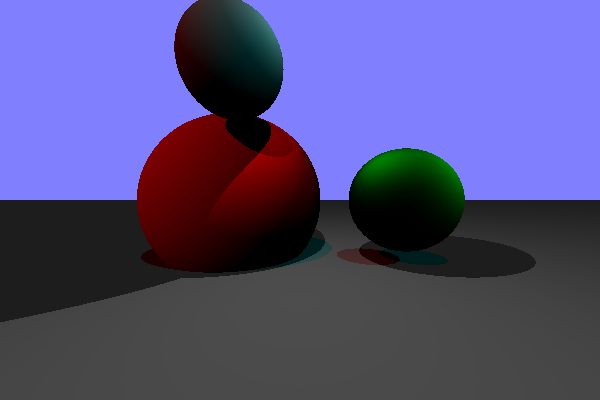
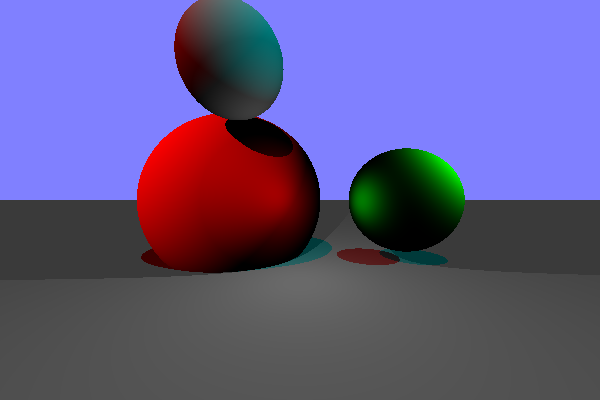
readjustments

Changed region(s): [[0.0, 0.0, 1.0, 0.81], [0.6, 0.57, 0.9, 0.72]]

diff --git a/src/main.rs b/src/main.rs
@@ -40,19 +40,19 @@ fn main() {
         DirectionalLight::new(
             Vector::new(1.0, -1.0, -1.0),
             Color::new(255,0, 0),
-            0.5
+            1.0
         )
     ));
     scene.add_light(Box::new(
         DirectionalLight::new(
             Vector::new(-1.0, -1.0, -1.0),
             Color::new(0,255, 255),
-            0.5
+            1.0
         )
     ));
     scene.add_light(Box::new(
        SphericalLight::new(
-           Vector::new(0.0, 5.0, -5.0),
+           Vector::new(0.0, 0.0, -6.0),
            Color::new(255, 255, 255),
            6.0
        )
